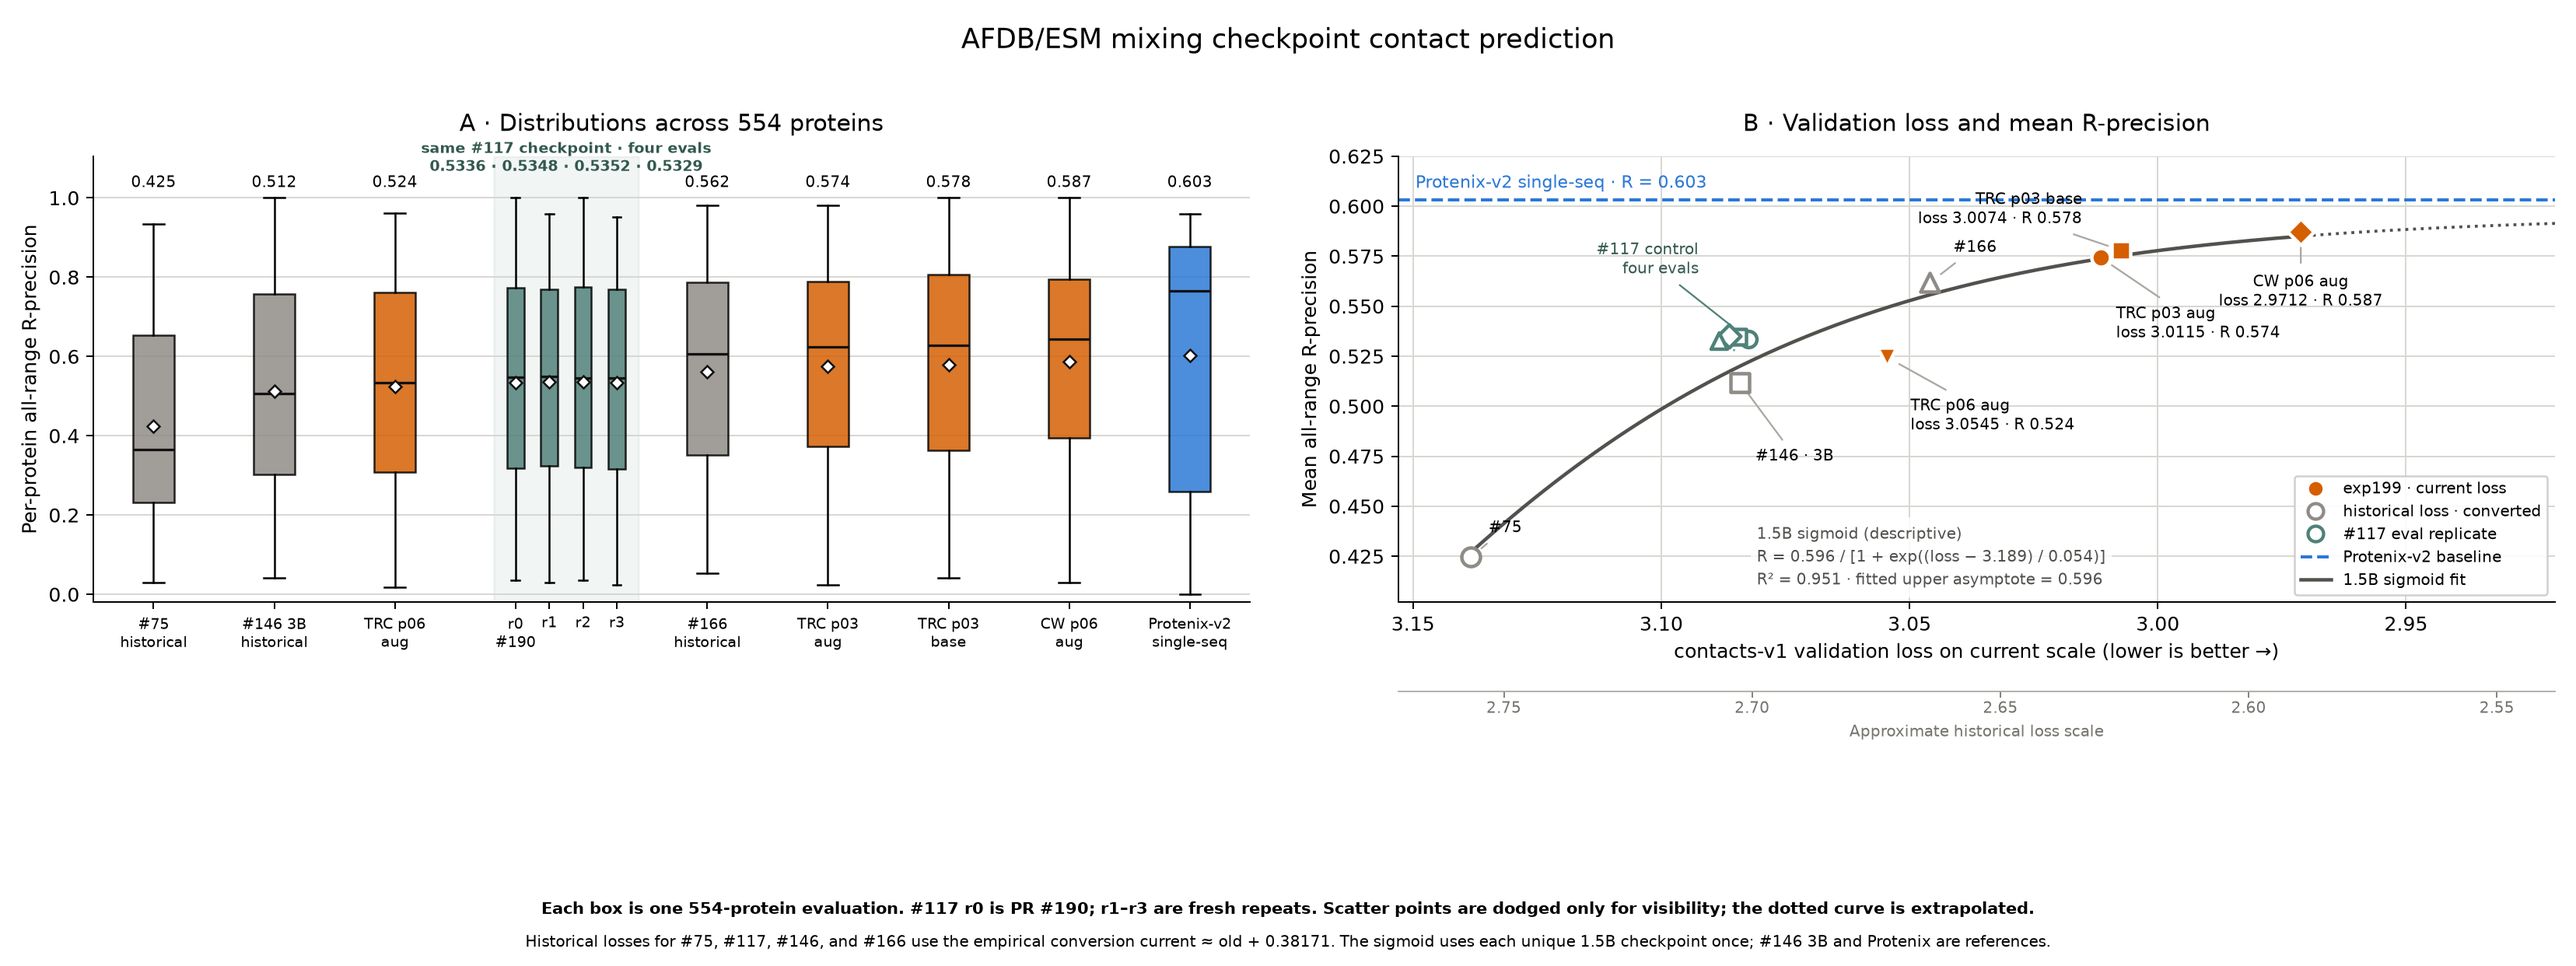
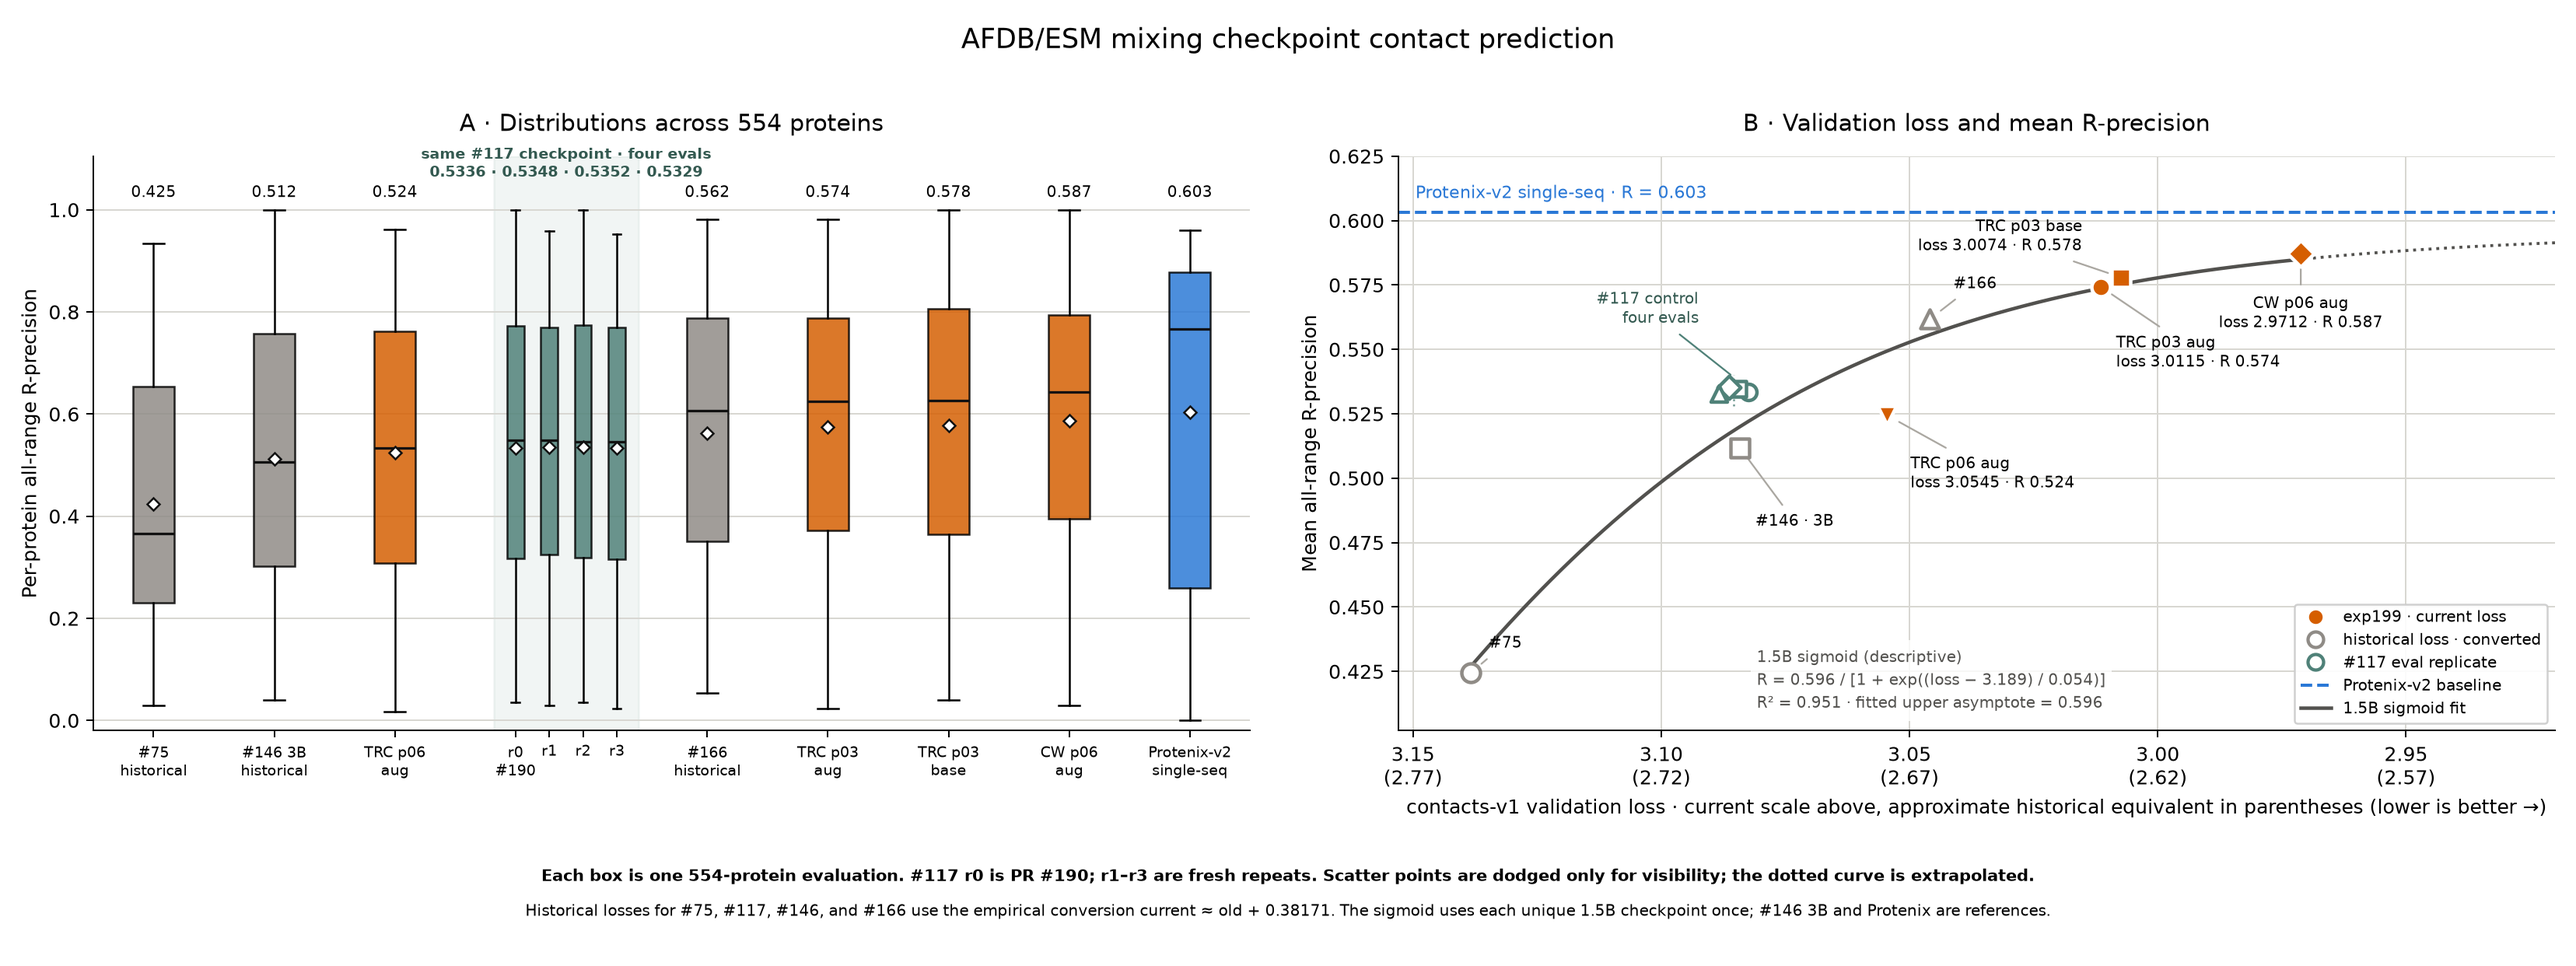
Pair current and historical loss ticks

diff --git a/experiments/exp199_optimize_contacts_v1_afdb_esm/evals/contact_prediction/plot_contact_eval.py b/experiments/exp199_optimize_contacts_v1_afdb_esm/evals/contact_prediction/plot_contact_eval.py
@@ -471,31 +471,19 @@ def draw_scatter(
     )
     axis.set_xlim(3.153, 2.92)
     axis.set_ylim(0.402, 0.625)
-    axis.set_xlabel("contacts-v1 validation loss on current scale (lower is better →)")
+    loss_ticks = np.asarray([3.15, 3.10, 3.05, 3.00, 2.95])
+    axis.set_xticks(
+        loss_ticks,
+        [
+            f"{current:.2f}\n({current - LOSS_OFFSET:.2f})"
+            for current in loss_ticks
+        ],
+    )
+    axis.set_xlabel(
+        "contacts-v1 validation loss · current scale above, approximate historical "
+        "equivalent in parentheses (lower is better →)"
+    )
     axis.set_ylabel("Mean all-range R-precision")
-    old_loss_axis = axis.secondary_xaxis(
-        -0.20,
-        functions=(
-            lambda current: current - LOSS_OFFSET,
-            lambda old: old + LOSS_OFFSET,
-        ),
-    )
-    old_loss_axis.set_xlabel(
-        "Approximate historical loss scale",
-        color="#77746f",
-        fontsize=8.2,
-        labelpad=4,
-    )
-    old_loss_axis.tick_params(
-        axis="x",
-        colors="#77746f",
-        labelsize=7.8,
-        length=3,
-        width=0.7,
-        pad=2,
-    )
-    old_loss_axis.spines["bottom"].set_color("#aaa7a1")
-    old_loss_axis.spines["bottom"].set_linewidth(0.7)
     axis.set_title("B · Validation loss and mean R-precision", pad=13)
     axis.grid(color="#d8d7d2", linewidth=0.8)
     axis.set_axisbelow(True)
@@ -579,7 +567,7 @@ def run(*, output: Path, scratch: Path) -> None:
     )
     figure.text(
         0.5,
-        0.054,
+        0.088,
         (
             "Each box is one 554-protein evaluation. #117 r0 is PR #190; "
             "r1–r3 are fresh repeats. Scatter points are dodged only for visibility; "
@@ -591,7 +579,7 @@ def run(*, output: Path, scratch: Path) -> None:
     )
     figure.text(
         0.5,
-        0.020,
+        0.052,
         (
             "Historical losses for #75, #117, #146, and #166 use the empirical "
             "conversion current ≈ old + 0.38171. The sigmoid uses each unique "
@@ -600,7 +588,7 @@ def run(*, output: Path, scratch: Path) -> None:
         ha="center",
         fontsize=8,
     )
-    figure.tight_layout(rect=(0, 0.15, 1, 0.955), w_pad=2.6)
+    figure.tight_layout(rect=(0, 0.13, 1, 0.955), w_pad=2.6)
     output.parent.mkdir(parents=True, exist_ok=True)
     figure.savefig(output, dpi=180)
     plt.close(figure)

diff --git a/experiments/exp199_optimize_contacts_v1_afdb_esm/evals/contact_prediction/README.md b/experiments/exp199_optimize_contacts_v1_afdb_esm/evals/contact_prediction/README.md
@@ -100,10 +100,10 @@ The figure retains PR #190's historical #75, #146, #166, and Protenix-v2
 single-sequence references. Their old losses use the same conversion. The four
 #117 boxes and scatter points are separate evaluations of one checkpoint. The
 scatter dodges those points horizontally for visibility while keeping their
-shared converted loss explicit. The primary x-axis uses the current loss scale,
-and a subtle lower axis provides the approximate historical scale. The loss
-conversion affects only the axes; all plotted R-precision values come from the
-original per-protein evaluations. Lower loss runs to the right.
+shared converted loss explicit. Each x tick shows the current loss above its
+approximate historical equivalent in parentheses. The loss conversion affects
+only those labels; all plotted R-precision values come from the original
+per-protein evaluations. Lower loss runs to the right.
 
 The scatter includes a descriptive three-parameter sigmoid fit with its lower
 asymptote fixed at zero. It uses the unique 1.5B checkpoints. The four #117
